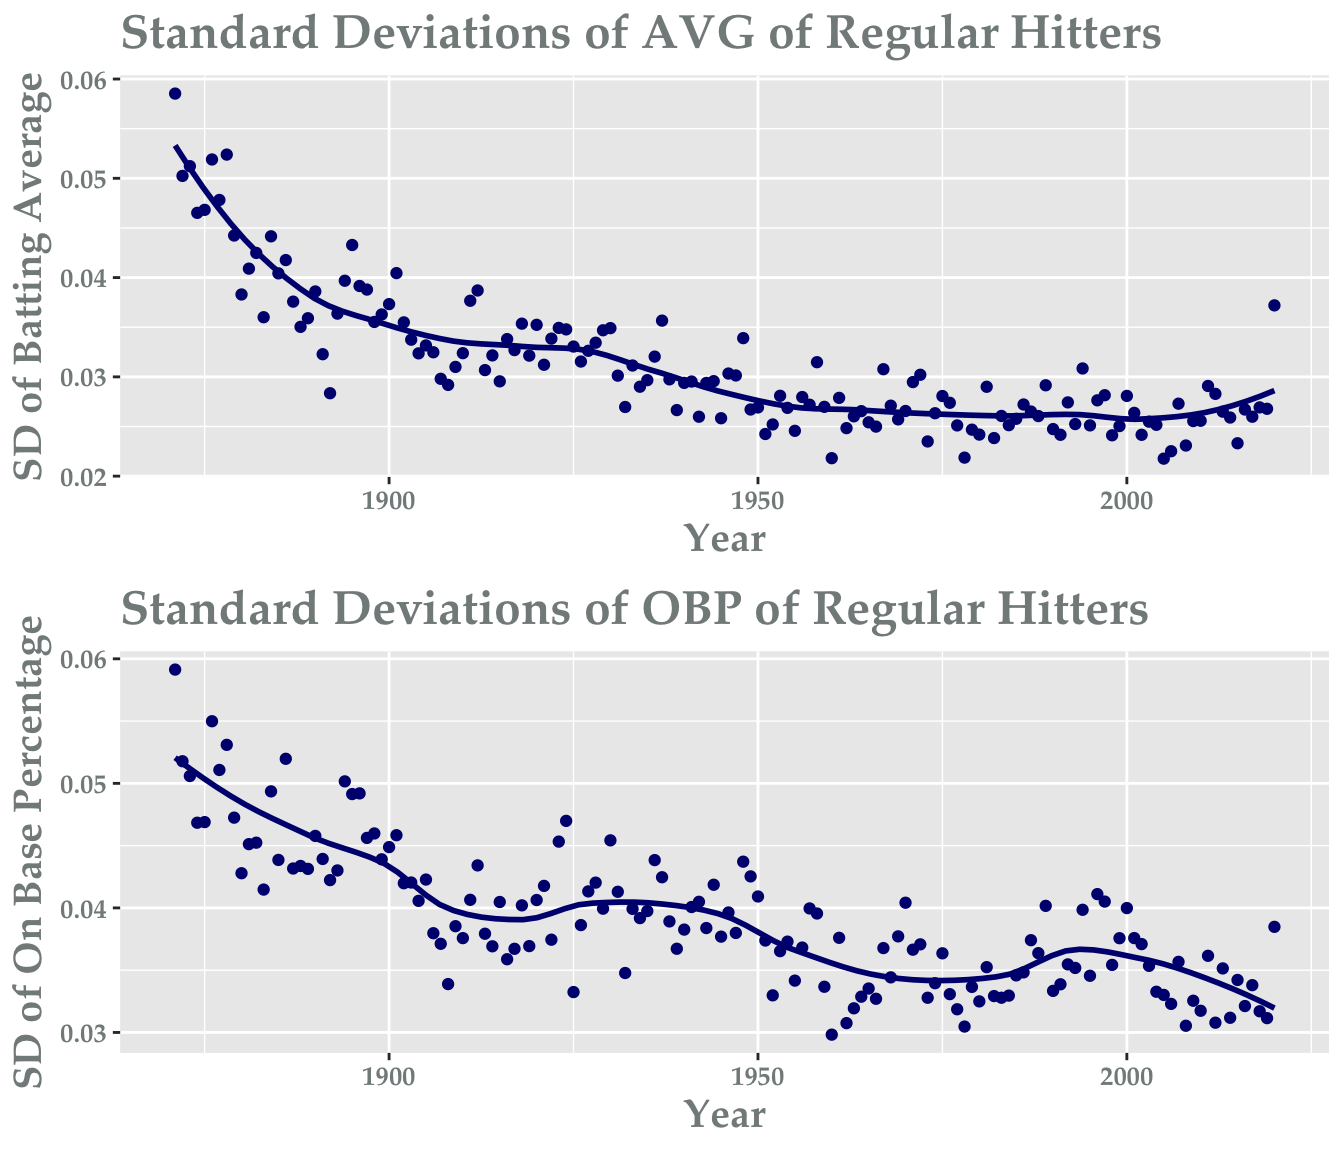
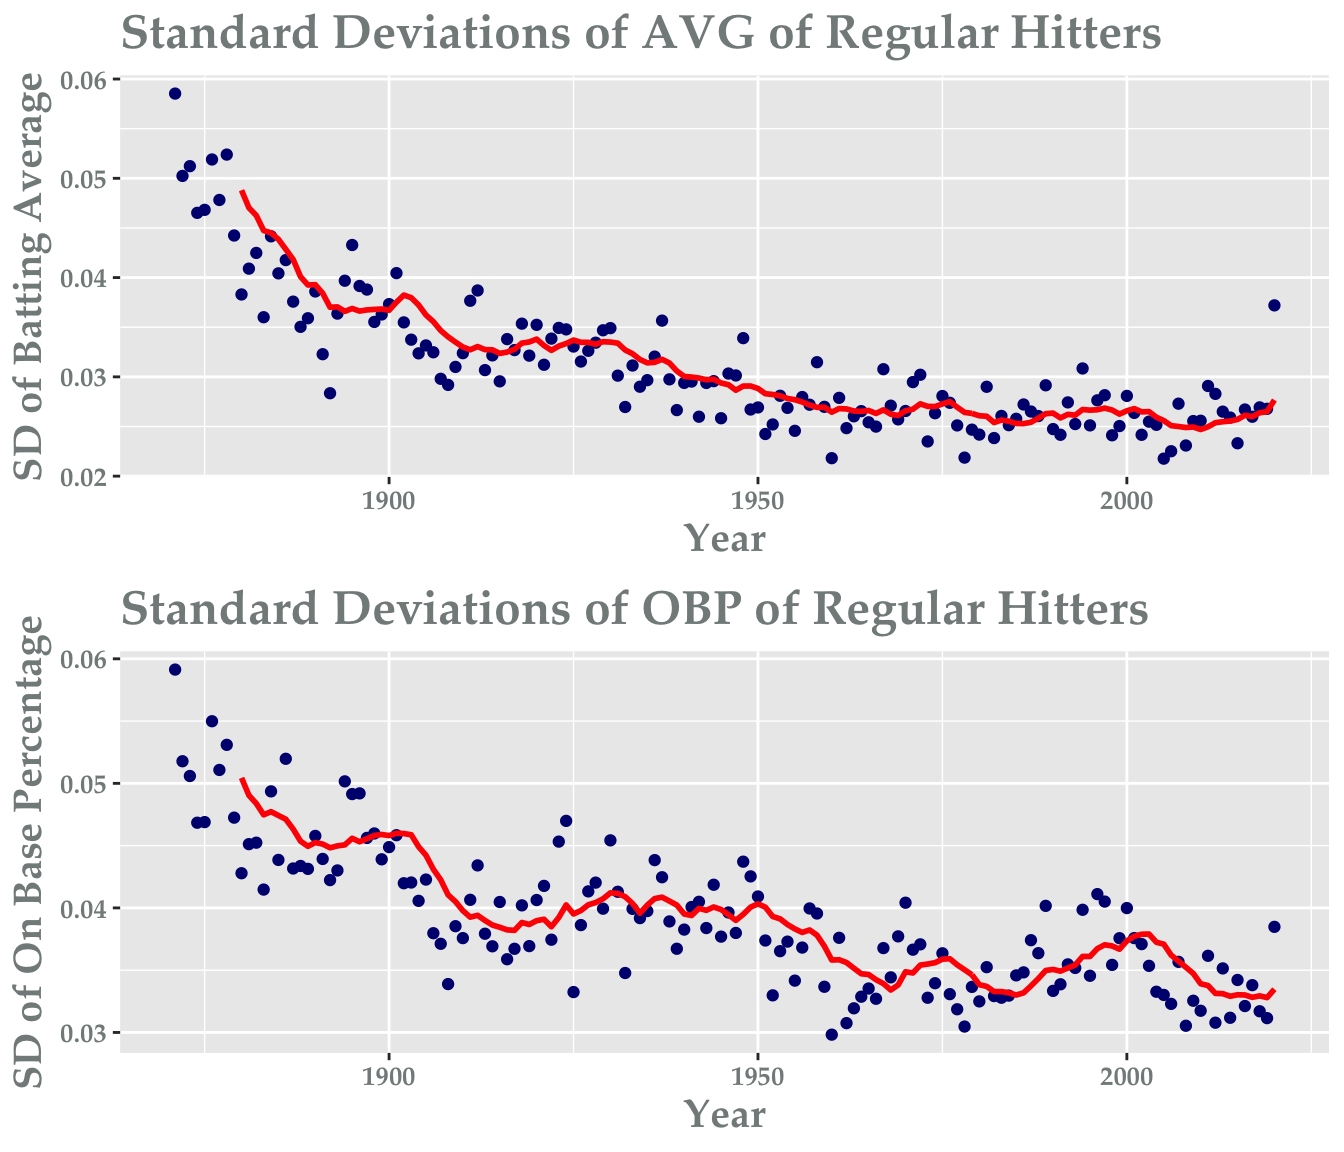
Fixed moving average plot

diff --git a/Poster/Poster.html b/Poster/Poster.html
@@ -21,6 +21,7 @@ Google fonts api stuff
 
 <title>Poster.utf8</title>
 
+<script src="Poster_files/accessible-code-block-0.0.1/empty-anchor.js"></script>
 
 
 
@@ -333,9 +334,6 @@ with increased velocity go for strikeouts.</p>
 <div id="hitting-statistics-rising" class="section level1">
 <h1>Hitting Statistics Rising</h1>
 <p><img src="Poster_files/figure-html/unnamed-chunk-6-1.png" width="100%" style="display: block; margin: auto;" /></p>
-</div>
-<div id="section" class="section level1">
-<h1></h1>
 <p><img src="Poster_files/figure-html/unnamed-chunk-7-1.png" width="100%" style="display: block; margin: auto;" /></p>
 </div>
 <div id="awards-and-hitting-relationship" class="section level1">
